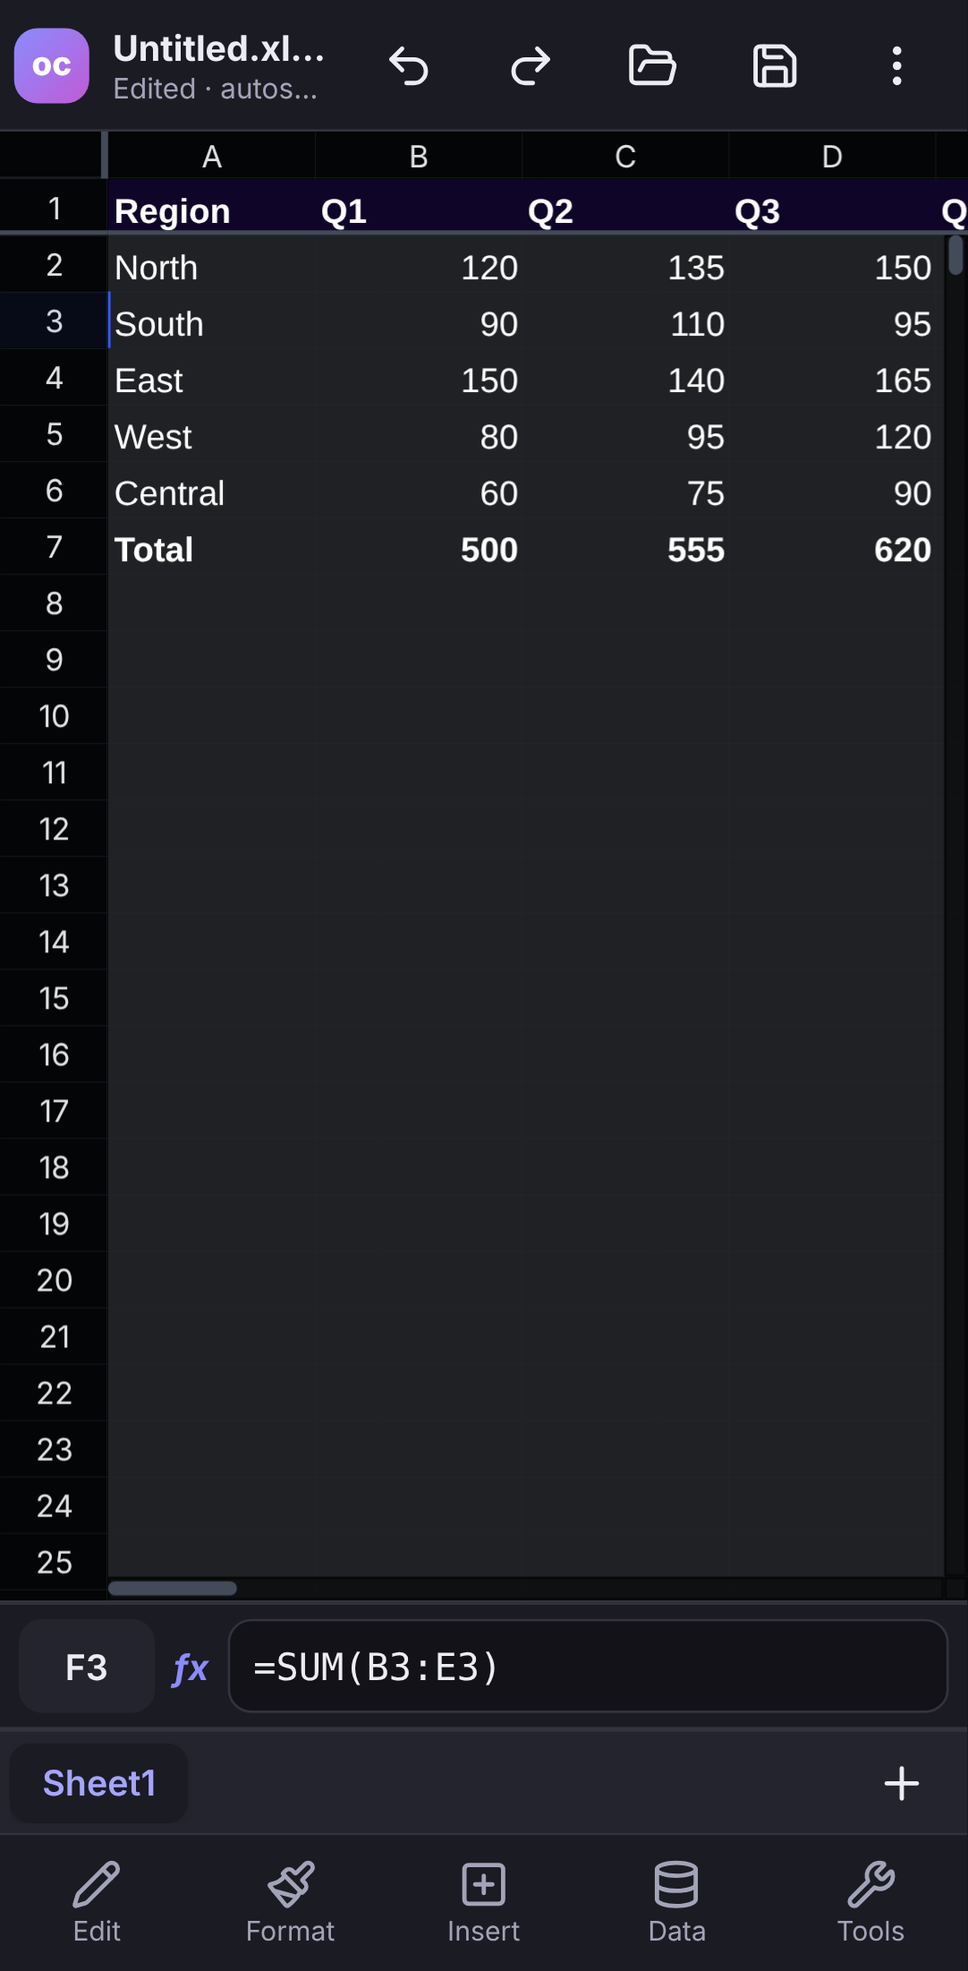
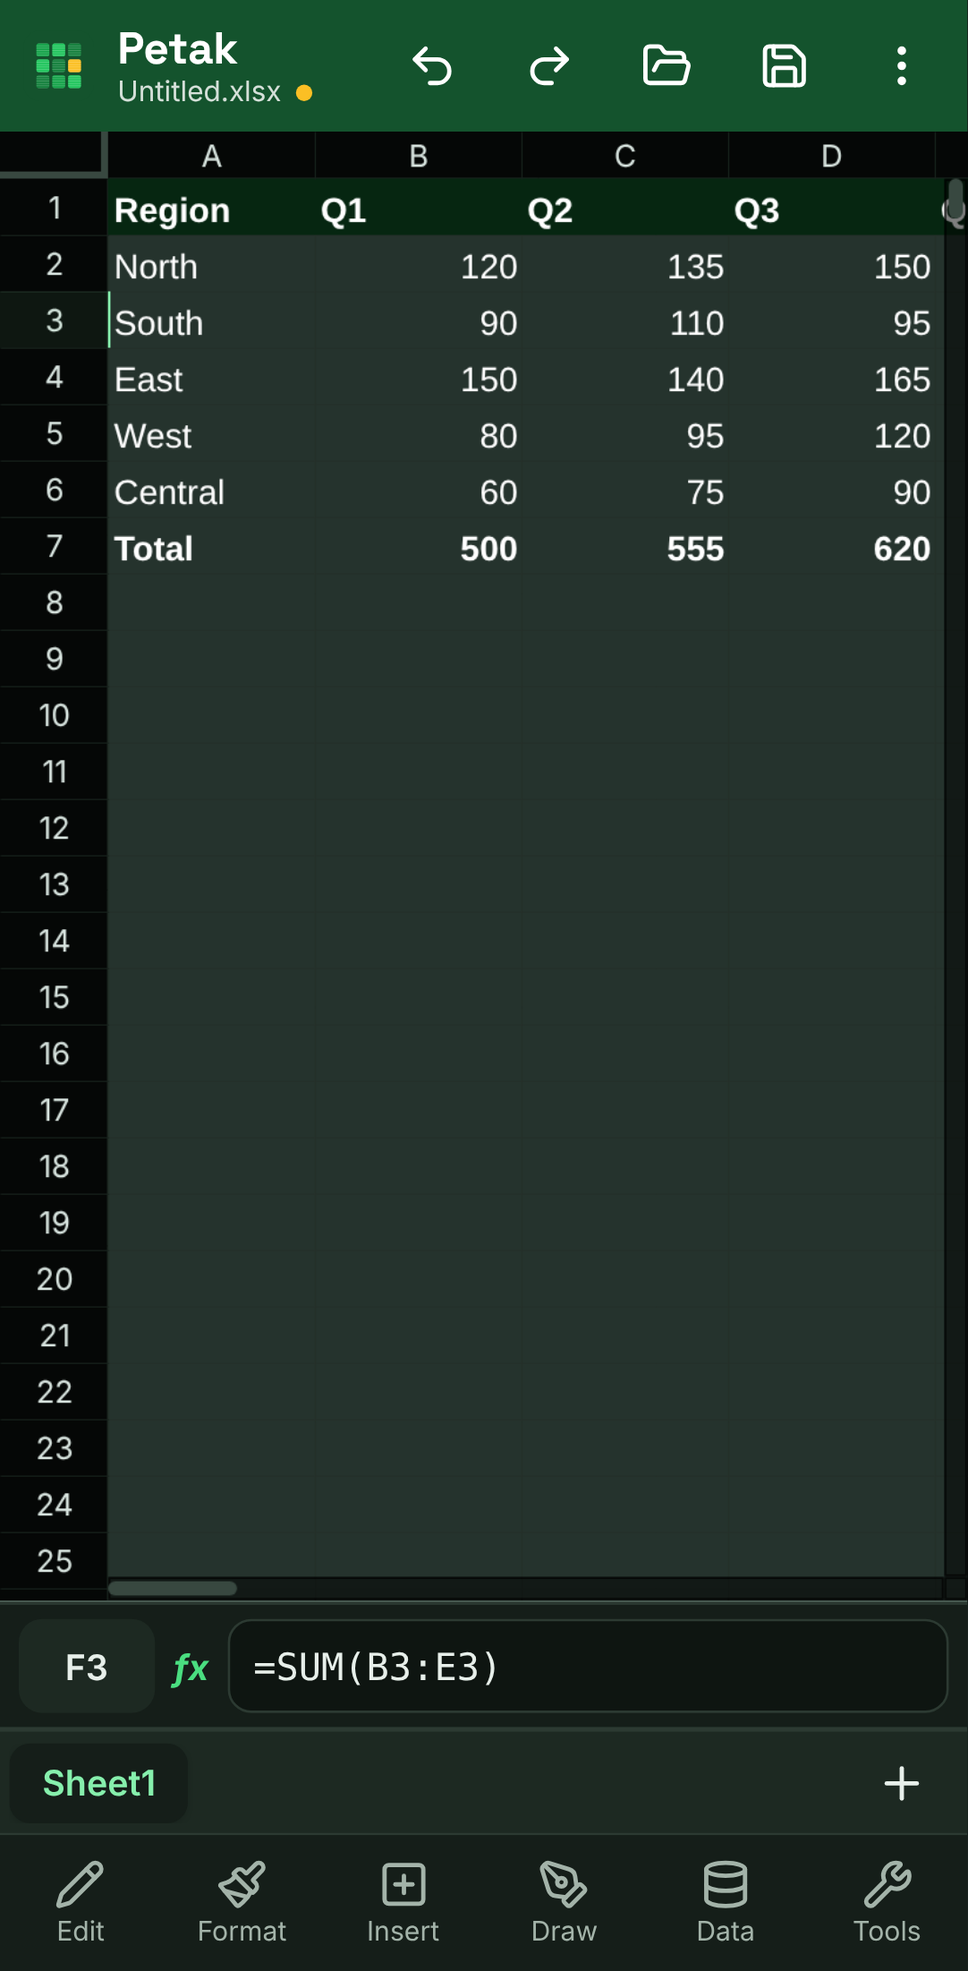
Part 6: README for Petak 1.1, new screenshots, CI fix
- README: new name and logo, features 1-16, drawing tools, performance
  (canvas rendering, shared memory, thermal governor), app size, updated
  comparison table and limitations, install from GitHub Releases.
- Screenshots regenerated with the Petak design (scripts/screenshots.mjs).
- CI: android-actions/setup-android failed on every run (removed 'tools'
  package); use the runner's preinstalled SDK and install platform 36 /
  build-tools directly. Collect universal + per-ABI APKs, SHA256SUMS, SIZE.md.

Claude-Session: https://claude.ai/code/session_019x9kE6ULnBYpWdUPKabMSF

diff --git a/README.md b/README.md
@@ -3,21 +3,24 @@
 # Petak
 
 **An open-source spreadsheet app for Android phones and tablets.**
-Open, edit and save `.xlsx`, `.xlsm` and `.csv` files from your phone storage, with formulas, charts,
-pivot tables, JavaScript macros and a Power-Query-style data transform panel, all on the device.
+Open, edit and save `.xlsx`, `.xlsm` and `.csv` files from your phone storage, with 476 Excel functions, charts,
+pivot tables, comments, data validation, sparklines, what-if analysis, slicers, a DuckDB data model,
+a precision drawing layer with true-scale export, JavaScript macros and a Power-Query-style transform panel, all on the device.
 
 License: **GNU GPL v3** (see [LICENSE](LICENSE)). Third-party components: [THIRD_PARTY_LICENSES.md](THIRD_PARTY_LICENSES.md).
 
-> Download: ready-built APKs are in [`releases/`](releases/). See [Install](#install) below.
+> **Download:** the latest APK is on the [Releases page](https://github.com/aiman-959/petak/releases/latest)
+> (`Petak-v1.1.0.apk`, 3.9 MB). See [Install](#install).
 
-<!-- Screenshots are captured from the web build at phone/tablet sizes; replace with on-device captures when available -->
-| Phone | Phone — Format tools | Dark mode |
-|---|---|---|
-| ![Phone](docs/screenshots/phone.png) | ![Format tools](docs/screenshots/phone-format.png) | ![Dark mode](docs/screenshots/dark.png) |
+| Phone | Format tools | Drawing mode | Dark mode |
+|---|---|---|---|
+| ![Phone](docs/screenshots/phone.png) | ![Format tools](docs/screenshots/phone-format.png) | ![Drawing](docs/screenshots/phone-draw.png) | ![Dark mode](docs/screenshots/dark.png) |
 
 | Tablet with side panel | Charts |
 |---|---|
 | ![Tablet](docs/screenshots/tablet.png) | ![Charts](docs/screenshots/tablet-chart.png) |
+
+Screenshots come from the production web build at phone/tablet sizes (`node scripts/screenshots.mjs`).
 
 ---
 
@@ -26,56 +29,73 @@ License: **GNU GPL v3** (see [LICENSE](LICENSE)). Third-party components: [THIRD
 | # | Feature | Notes |
 |---|---|---|
 | 1 | **Open / edit / save** `.xlsx`, `.xlsm`, `.csv` (also opens `.xls`, `.ods`) | Android Storage Access Framework picker (Downloads, Drive, SD card…). **Save** writes back to the same file, **Save as** creates a new one. "Open with Petak" from file managers. |
-| 2 | **Formulas** with 420+ functions via HyperFormula | SUM, AVERAGE, IF, IFS, XLOOKUP, VLOOKUP, INDEX/MATCH, SUMIFS, COUNTIFS, AVERAGEIFS, TEXT (Excel number formats), DATE, TODAY, EOMONTH, EDATE, DATEDIF, NETWORKDAYS… Cross-sheet references, function suggestions in the formula bar. |
-| 3 | **Sheets, freeze panes, sort, filter, find & replace** | Add / rename / duplicate / delete sheets (long-press a tab). Freeze top row, first column or at selection. Sort keeps header rows. Column filters. |
-| 4 | **Formatting** | Number formats (incl. custom patterns), bold/italic/underline/strike, text and fill colours, borders, alignment, wrap, merge cells, conditional formatting (greater/less/between/equal, text contains, duplicates, colour scale, data bar). Saved to xlsx. |
-| 5 | **Charts** | Bar, line and pie from any range; update live as data changes; stored in the file. |
-| 6 | **Pivot tables** | Row fields × column field with sum, count, average, min or max, plus totals. Refreshable. |
-| 7 | **Undo / redo and autosave** | Unlimited-style undo stack; the session autosaves to app storage on every change (and when the app goes to background) and is restored at next launch. |
-| 8 | **Macros** | JavaScript macros with `getCell`, `setCell`, `getRange`, `setRange`, `addSheet`, `sheetNames`, `useSheet`, `log`. Run in a sandboxed Web Worker (no network or storage) with a time limit; changes are undoable. **VBA in `.xlsm` files is preserved on save but not executed** (VBA cannot run on Android). |
-| 9 | **Data transforms** (Power Query-like) | Import CSV/xlsx or use a sheet range, then record steps: filter rows, remove columns, change type, merge tables (joins), group by, pivot, unpivot, sort, rename. Steps are saved in the workbook and can be **refreshed** later. |
+| 2 | **Formulas**: 476 of 514 Excel 365 functions | HyperFormula plus ~90 functions added by Petak (TEXTSPLIT, TAKE, DROP, CHOOSECOLS, VSTACK, LET-style helpers, financial, statistical, engineering…). Incremental recalculation in a worker. Full list and the 38 that cannot work on a phone: [FUNCTIONS.md](FUNCTIONS.md). |
+| 3 | **Sheets, freeze panes, sort, filter, find & replace** | Full Excel grid size (1,048,576 × 16,384), grows as you scroll. |
+| 4 | **Formatting** | Number formats, fonts, colours, borders, alignment, merge, conditional formatting. Saved to xlsx. |
+| 5 | **Charts** | Bar, line, area, pie, doughnut, scatter, combo (bar + line, second axis when needed), histogram, waterfall. Live, stored in the file. |
+| 6 | **Pivot tables and slicers** | Row × column fields, sum/count/average/min/max. Slicers filter tables and pivots by tapping values. |
+| 7 | **Comments and notes** | Threaded comments with replies and resolve; classic notes. Notes and comments round-trip through xlsx. |
+| 8 | **Data validation** | Lists (typed or from a range), whole/decimal numbers, dates, text length, custom formulas; input messages and Stop / Warning / Information alerts. Saved to xlsx. |
+| 9 | **Sparklines** | Line, column and win/loss charts inside cells, one per row or column. |
+| 10 | **What-if analysis** | Goal Seek, Scenario Manager (save, show, summary) and one- / two-variable Data Tables. |
+| 11 | **Data model** | Relationships between tables, cross-table pivots and SQL queries on **DuckDB-WASM**, downloaded only when first used (6.6 MB, size shown first, removable). |
+| 12 | **Import from URL** | CSV or JSON from a web address as a transform source, with **Refresh**. |
+| 13 | **Drawing and precision tools** | Rectangle, ellipse, line, polyline, arrow, text box, image and dimension line, drawn on the sheet. Snapping (cell edges/corners, cell centres, objects' edges/midpoints/centres, ruler grid, 15° angles, each switchable), rulers in mm / cm / in / px / cells, exact X/Y/W/H/rotation input, live dimensions, smart guides, align and distribute, layers (show/hide/lock), groups, magnifier loupe, column widths / row heights in mm, export to **SVG, DXF and PDF at true scale (1:1)**. |
+| 14 | **Undo / redo and autosave** | Session autosaves to app storage and is restored at next launch. Drawings have their own undo history. |
+| 15 | **Macros** | JavaScript macros in a sandboxed worker. **VBA in `.xlsm` files is preserved on save but not executed.** |
+| 16 | **Data transforms** (Power Query-like) | CSV / xlsx / sheet range / URL sources; filter, remove columns, change type, merge, group by, pivot, unpivot, sort, rename, SQL (with the data model). Refreshable. |
 
 ### Design
-* Original look (not modelled on any office suite): indigo/violet accent, rounded touch targets of ≥ 48 dp.
-* **Phone:** bottom toolbar (Edit · Format · Insert · Data · Tools) opening bottom sheets; the formula bar is
-  docked at the bottom so it sits right above the keyboard.
-* **Tablet (≥ 760 dp wide):** formula bar on top and a side panel with the same tools.
-* Pinch-to-zoom, inertial panning, light and dark mode (follows the system, toggle in the ⋮ menu).
+* Original look: deep green **#14532D** header, primary green **#15803D**, gold accent **#FBBF24**; all text
+  colour pairs pass WCAG AA (checked by `tests/unit/contrast.test.ts`). Wordmark in Space Grotesk Bold.
+* **Phone:** bottom toolbar (Edit · Format · Insert · Draw · Data · Tools) opening bottom sheets; formula bar
+  docked at the bottom above the keyboard. **Tablet (≥ 760 dp):** formula bar on top and a side panel.
+* Touch targets ≥ 44 dp, pinch-to-zoom, light and dark mode.
 
 ### Performance and device support
-* Android **8.0+** (minSdk 26), target SDK 36. Universal APK for **arm64-v8a, armeabi-v7a and x86_64**.
-  The app contains no native code, so the same APK runs on Snapdragon, MediaTek Dimensity/Helio,
-  Samsung Exynos, Google Tensor and x86 emulators/Chromebooks.
-* At startup the app reads total RAM and CPU cores (native `DeviceInfo` plugin) and picks a tier:
+* Android **8.0+** (minSdk 26), target SDK 36, **arm64-v8a, armeabi-v7a, x86_64**. Tuned on a Snapdragon 8s Gen 3;
+  Low and Mid tiers are tested in CI-style e2e runs (`?tier=low|mid`).
+* **Tiers** from RAM and core count (native `DeviceInfo` plugin):
 
-  | Tier | RAM | Load chunk | Workers | Effects | Warn above 100k rows |
-  |---|---|---|---|---|---|
-  | Low | ≤ 3 GB | 1,000 rows | 1 | reduced motion, grid canvas ≤ 1.5x | yes |
-  | Mid | 4–6 GB | 4,000 rows | 2 | normal, grid canvas ≤ 2x | yes |
-  | High | 8 GB+ | 10,000 rows | up to 4 | smooth, native resolution, 90/120 Hz requested | no |
+  | Tier | RAM | Load chunk | Workers | Display |
+  |---|---|---|---|---|
+  | Low | ≤ 3 GB | 1,000 rows | 1 | reduced motion, grid canvas ≤ 1.5x |
+  | Mid | 4–6 GB | 4,000 rows | 2 | grid canvas ≤ 2x |
+  | High | 8 GB+ | 10,000 rows | up to 4 | native resolution, **90/120 Hz** requested |
 
-  Phones report slightly less RAM than advertised (an 8 GB phone shows about 7.4 GB), so the value is
-  rounded up to the nearest standard size. Devices with 4 or fewer cores drop one tier.
-  You can force a tier for testing with `?tier=low|mid|high`.
-* **Everything heavy runs in Web Workers:** formulas (HyperFormula), file parsing and writing
-  (ExcelJS / SheetJS), transforms and pivots (Arquero, worker pool sized by tier) and macros (one throw-away worker per run).
-* **Virtualised canvas grid** (Univer): only visible cells are drawn. Render data for hidden sheets is released.
-* **Incremental autosave:** cells are stored in 2,000-row chunks and only changed chunks are rewritten.
-* **Incremental recalculation:** only cells depending on an edit are recomputed (HyperFormula dependency graph).
-* **Chunked loading** with a progress bar; files are transferred to workers without copying (Transferables).
-* Debounced input (formula suggestions, chart redraws). Release build is minified and code-split.
-* Measured results for a 50,000 × 20 file: [tests/perf/RESULTS.md](tests/perf/RESULTS.md).
+* **Canvas rendering, no DOM cells.** The grid, sparklines and drawings are painted on Univer's canvas (GPU-composited
+  by the WebView); only visible cells are drawn. Scrolling and zooming move the canvas, not thousands of elements.
+* **Workers for everything heavy:** formulas (HyperFormula), file parsing/writing, transforms, macros, DuckDB.
+* **SharedArrayBuffer when available, with a fallback.** The app serves COOP/COEP headers (Vite and the Android
+  WebView client). When the page is cross-origin isolated, the UI and workers share a control block: workers read the
+  load level with `Atomics` mid-loop and pause with `Atomics.wait`. Otherwise the same level is sent as messages.
+  About → *Live performance* shows which mode is active.
+* **Thermal and frame-time governor.** While you interact, frame times are sampled. If over 25 % of frames are dropped,
+  or Android reports MODERATE thermal status or battery saver, background work (autosave, sparkline repaints, chunked
+  loading) is spaced out and animations stop. At SEVERE or worse, chunk pauses grow and the High tier leaves 120 Hz until
+  the phone cools down.
+* Incremental autosave (changed 2,000-row chunks only), incremental recalculation, chunked loading with progress.
+* 50,000 × 20 performance test: [tests/perf/RESULTS.md](tests/perf/RESULTS.md).
+
+### App size
+Release APK **3.9 MB** (budget 40 MB). Full breakdown per build and module: [SIZE.md](SIZE.md) (`npm run size`).
+* Heavy optional engines download on first use with their size shown first: DuckDB (6.6 MB download, 35.7 MB on device).
+* Unused Univer hyphenation dictionaries for 77 languages removed at build time; English-only Android resources;
+  R8 code and resource shrinking; one font file (Space Grotesk Bold, Latin, 13 kB); minified, tree-shaken, code-split JS.
+* Per-ABI APKs are built alongside the universal APK. They are the same size because Petak has no native code.
 
 ---
 
 ## Install
 
-1. Download `releases/Petak-v1.1.0.apk` (or `Petak-v1.1.0-debug.apk`) from this repository on your phone.
+1. On your phone, open the [latest release](https://github.com/aiman-959/petak/releases/latest) and download
+   `Petak-v1.1.0.apk` (universal). ABI-specific files (`-arm64-v8a`, `-armeabi-v7a`, `-x86_64`) are also there.
 2. Open it and allow "Install unknown apps" for your browser or file manager when Android asks.
 3. Launch **Petak** and tap the folder icon to open a spreadsheet.
 
-The release APK in `releases/` is signed with a key created for this build. If you later build and sign your
-own release with a different key, uninstall the old app first (Android refuses updates signed by another key).
+Check the download against `SHA256SUMS.txt` from the same release if you like. Release APKs built without the
+repository's signing secrets are signed with the CI debug key. If you later install a build signed with a different
+key, uninstall the old app first (Android refuses updates signed by another key).
 
 ---
 
@@ -106,8 +126,8 @@ npx cap sync android          # copy dist/ into the Android project
 cd android
 echo "sdk.dir=$ANDROID_HOME" > local.properties
 ./gradlew assembleDebug
-# -> android/app/build/outputs/apk/debug/app-debug.apk
-adb install -r app/build/outputs/apk/debug/app-debug.apk   # optional, phone connected with USB debugging
+# -> android/app/build/outputs/apk/debug/app-universal-debug.apk (+ one APK per ABI)
+adb install -r app/build/outputs/apk/debug/app-universal-debug.apk   # optional, phone connected with USB debugging
 ```
 
 ### Release APK (signed)
@@ -128,17 +148,18 @@ EOF
 # 3. build
 npm ci && npm run build && npx cap sync android
 cd android && ./gradlew assembleRelease
-# -> android/app/build/outputs/apk/release/app-release.apk  (R8-minified, resources shrunk, signed)
+# -> android/app/build/outputs/apk/release/app-universal-release.apk  (R8-minified, resources shrunk, signed)
 # Google Play wants an App Bundle instead:  ./gradlew bundleRelease
 ```
 
 Instead of `keystore.properties` you can set the environment variables `PETAK_KEYSTORE`,
 `PETAK_KEYSTORE_PASSWORD`, `PETAK_KEY_ALIAS` and `PETAK_KEY_PASSWORD`.
-Without either, `assembleRelease` produces an unsigned APK.
+Without either, `assembleRelease` signs with the debug key so the APK can still be installed for testing.
 
 ### Continuous integration
-`.github/workflows/android.yml` builds both APKs on every push and uploads them as workflow artifacts.
-Pushing a tag such as `v1.0.1` also creates a GitHub Release with the APKs attached. Add the repository secrets
+`.github/workflows/android.yml` runs the unit tests and builds debug and release APKs (universal + per ABI) on every push,
+with the size report in the job summary. Pushing a tag such as `v1.1.0` creates a GitHub Release with the APKs,
+`SHA256SUMS.txt` and `SIZE.md` attached. Add the repository secrets
 `KEYSTORE_BASE64` (`base64 -w0 petak-release.jks`), `KEYSTORE_PASSWORD`, `KEY_ALIAS` and `KEY_PASSWORD`
 to get a signed release APK.
 
@@ -146,10 +167,15 @@ to get a signed release APK.
 
 ```bash
 npm run dev            # http://localhost:5173  (?mobile, ?desktop, ?tier=low|mid|high, ?fresh)
-npm test               # unit tests (formulas, xlsx/csv/VBA round trip, transforms, pivots, macros)
+npm test               # 93 unit tests (formulas, functions, xlsx round trip, drawing geometry/export, governor…)
 npm run build && npm run preview &                  # serve the production build on :4173
-BASE_URL=http://localhost:4173/ npm run test:e2e   # end-to-end test of features 1-9 (19 checks)
-BASE_URL=http://localhost:4173/ npm run test:perf  # 50k x 20 load / scroll / memory test -> tests/perf/RESULTS.md
+export BASE_URL=http://localhost:4173/
+npm run test:e2e                   # core features (19 checks)
+node tests/e2e/part2.mjs           # comments, validation, sparklines, what-if, slicers, data model, URL import (16)
+node tests/e2e/part3.mjs           # drawing and precision tools (17)
+node tests/e2e/part4.mjs           # shared memory / fallback, governor, Low and Mid tiers (9)
+npm run test:perf                  # 50k x 20 load / scroll / memory test -> tests/perf/RESULTS.md
+npm run size                       # size report -> SIZE.md
 ```
 Playwright needs a Chromium: `npx playwright install chromium`, or point `CHROMIUM_PATH` at an existing one.
 
@@ -162,32 +188,47 @@ src/
   univer/        Univer grid setup (desktop + mobile plugins), conditional-format mapping
   engine/        HyperFormula worker, formula bridge (incremental recalc), RPC helper
   io/            xlsx read/write (ExcelJS), csv/xls/ods (SheetJS), VBA preservation, file access
-  device/        performance tier detection, native plugin wrappers
+  device/        tiers, load governor (frame time / thermal), shared-memory control, native plugin wrappers
+  draw/          drawing layer: geometry & snapping, renderer, overlay UI, SVG/DXF/PDF exporters
+  review/        comments, notes, data validation
+  features/      sparklines, what-if, slicers
+  datamodel/ modules/   DuckDB data model and the on-demand module downloader
   state/         document controller (open/save/autosave), IndexedDB storage
   ui/            app chrome, toolbars, dialogs (touch-first)
   charts/ pivot/ macros/ transform/   feature panels (lazy-loaded) and their workers
 android/app/src/main/java/com/zetl/petak/
-  MainActivity.java, DeviceInfoPlugin.java (RAM/cores/SoC/refresh rate), DocumentsPlugin.java (SAF)
+  MainActivity.java (COOP/COEP headers), DeviceInfoPlugin.java (RAM/cores/SoC/refresh rate/thermal), DocumentsPlugin.java (SAF)
 tests/unit  tests/e2e  tests/perf
 ```
 
 ## How it compares to desktop Excel
 Petak is **not a clone of Microsoft Excel**. It is an independent, original app that opens and saves the same
-file formats and covers the everyday spreadsheet work listed above. It does not copy Excel's look or branding.
+file formats and covers everyday spreadsheet work on a phone. It does not copy Excel's look or branding.
 
-| | Petak | Desktop Excel |
+| | Petak 1.1 | Desktop Excel |
 |---|---|---|
-| Grid size | 1,048,576 rows × 16,384 columns (A…XFD), grows as you scroll | same |
-| Functions | ~420 (HyperFormula) incl. XLOOKUP, IFS, SUMIFS, FILTER, UNIQUE, SORT | ~500 |
-| Not available | VBA execution, Power Pivot / data model, 3D/advanced chart types, slicers, images & shapes, comments, data validation, sparklines, what-if analysis, external data connections, co-authoring | — |
+| Grid size | 1,048,576 rows × 16,384 columns (A…XFD) | same |
+| Functions | 476 of 514 (92.6 %), list in [FUNCTIONS.md](FUNCTIONS.md) | 514 |
+| Charts | bar, line, area, pie, doughnut, scatter, combo, histogram, waterfall, sparklines | 20+ types incl. 3D, maps, stock, funnel |
+| Comments / notes, data validation | ✓ (round-trip through xlsx) | ✓ |
+| What-if | Goal Seek, Scenario Manager, Data Tables | same + Solver add-in |
+| Slicers | for tables and pivots (stored in Petak metadata) | ✓ native |
+| Data model | DuckDB (download on demand): relationships, cross-table pivots, SQL | Power Pivot (DAX) |
+| External data | CSV/JSON from a URL, refreshable | Power Query connectors, ODBC, OLAP |
+| Drawing | shapes, images, dimensions, snapping, rulers in mm, layers, true-scale SVG/DXF/PDF | shapes, SmartArt (no CAD-style precision tools) |
 | Macros | JavaScript (sandboxed); VBA kept in .xlsm but not run | VBA, Office Scripts |
-| Data transforms | 9 step types, refreshable | Power Query (M language) |
+| Co-authoring | — (not planned for now) | ✓ |
 
 ## Known limitations
 * VBA macros are kept but never executed. JavaScript macros cover the automation use case.
-* Charts, pivot definitions, saved macros and transform queries are stored in a hidden worksheet
-  (`__petak_meta`). Other apps keep them but do not show them as native charts or pivots.
-* xlsx features outside the list above (images, comments, data validation, sparklines, external links) are not imported.
+* Charts, pivots, slicers, sparklines, scenarios, drawings and transform queries are stored in a hidden worksheet
+  (`__petak_meta`). Other apps keep them but do not show them as their own objects. Comments, notes and data
+  validation are written as real xlsx objects.
+* Drawings are Petak shapes, not xlsx drawing objects; export them as SVG/DXF/PDF to use elsewhere.
+* The drawing overlay assumes no frozen panes while drawing; with frozen panes, shapes still render correctly but pointer
+  positions refer to the scrolling area.
+* Whether the Android WebView honours COOP/COEP (and so enables SharedArrayBuffer) depends on the WebView version;
+  when it does not, the message fallback is used. About → *Live performance* shows the mode on your phone.
 * Very large files (500k+ cells on Low tier) can exceed WebView memory. The app warns before opening files over 100k rows on Low and Mid tiers.
 
 ## Contributing

diff --git a/releases/README.md b/releases/README.md
@@ -7,9 +7,11 @@ Release builds are published on the repository's **Releases** page by GitHub Act
 | File | Use |
 |---|---|
 | `Petak-v1.1.0.apk` | Normal install. Minified (R8), signed. Package `com.zetl.petak`. |
+| `Petak-v1.1.0-arm64-v8a.apk`, `-armeabi-v7a.apk`, `-x86_64.apk` | Same app, one per ABI (identical content: Petak has no native code). |
 | `Petak-v1.1.0-debug.apk` | For testing. WebView debugging is on (`chrome://inspect`). Package `com.zetl.petak.debug`, installs next to the release build. |
+| `SIZE.md` | Size of each build and module. |
 
-Both are universal APKs for Android 8.0+ (arm64-v8a, armeabi-v7a, x86_64 — the app has no native code).
+All APKs run on Android 8.0+. Without the repository's signing secrets, CI signs release APKs with its debug key.
 Verify a download with `sha256sum -c SHA256SUMS.txt`.
 
 Petak replaces the earlier "OpenCells" builds (package `org.opencells.app`). Android treats it as a new app,
